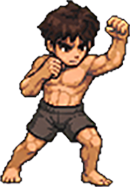
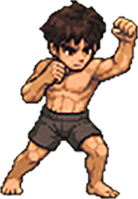
Combat: set critical frame 1 to 138x199
Claude-Session: https://claude.ai/code/session_01W4v7cyzS6Fr8aMVaGgywWE

diff --git a/js/ui.js b/js/ui.js
@@ -147,7 +147,7 @@ const COMBAT_PLAYER_HIT_FRAMES = ['assets/combat/player/hit_0001.png', 'assets/c
 const COMBAT_PLAYER_CRI_FRAMES = ['assets/combat/player/cri_0001.png', 'assets/combat/player/cri_0002.png'];
 const COMBAT_PLAYER_ATTACK_FRAME_MS = 150;
 const COMBAT_PLAYER_HIT_SIZES = [[200, 214], [200, 214]]; // width, height of each hit frame
-const COMBAT_PLAYER_CRI_SIZES = [[130, 187], [120, 231]]; // width, height of each critical frame
+const COMBAT_PLAYER_CRI_SIZES = [[138, 199], [120, 231]]; // width, height of each critical frame
 let combatPlayerAttack = { at: 0, crit: false };
 function playPlayerAttackAnim(isCrit) {
     combatPlayerAttack = { at: Date.now(), crit: !!isCrit };
